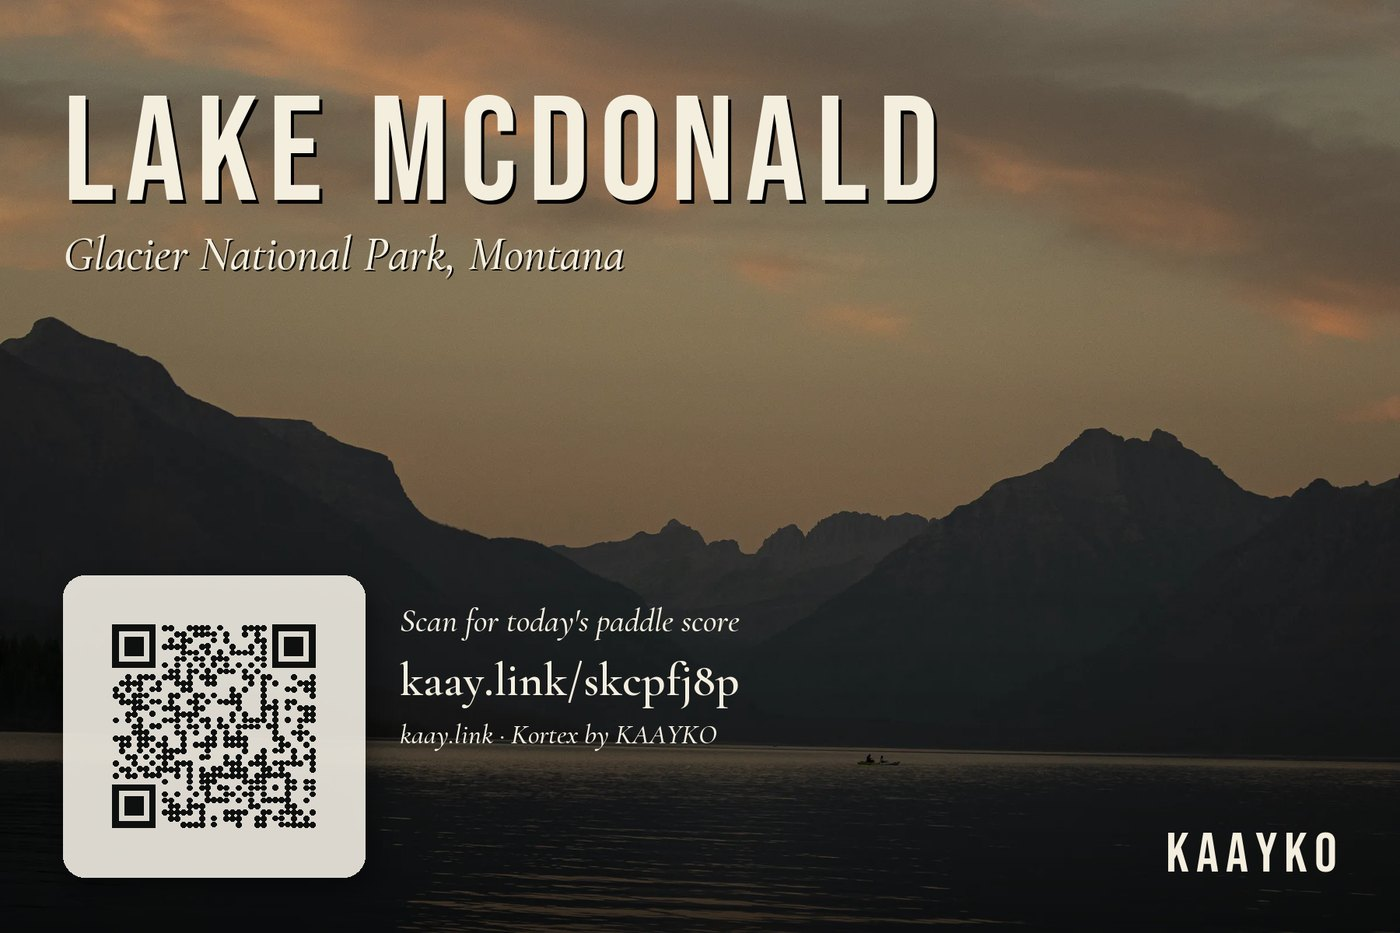
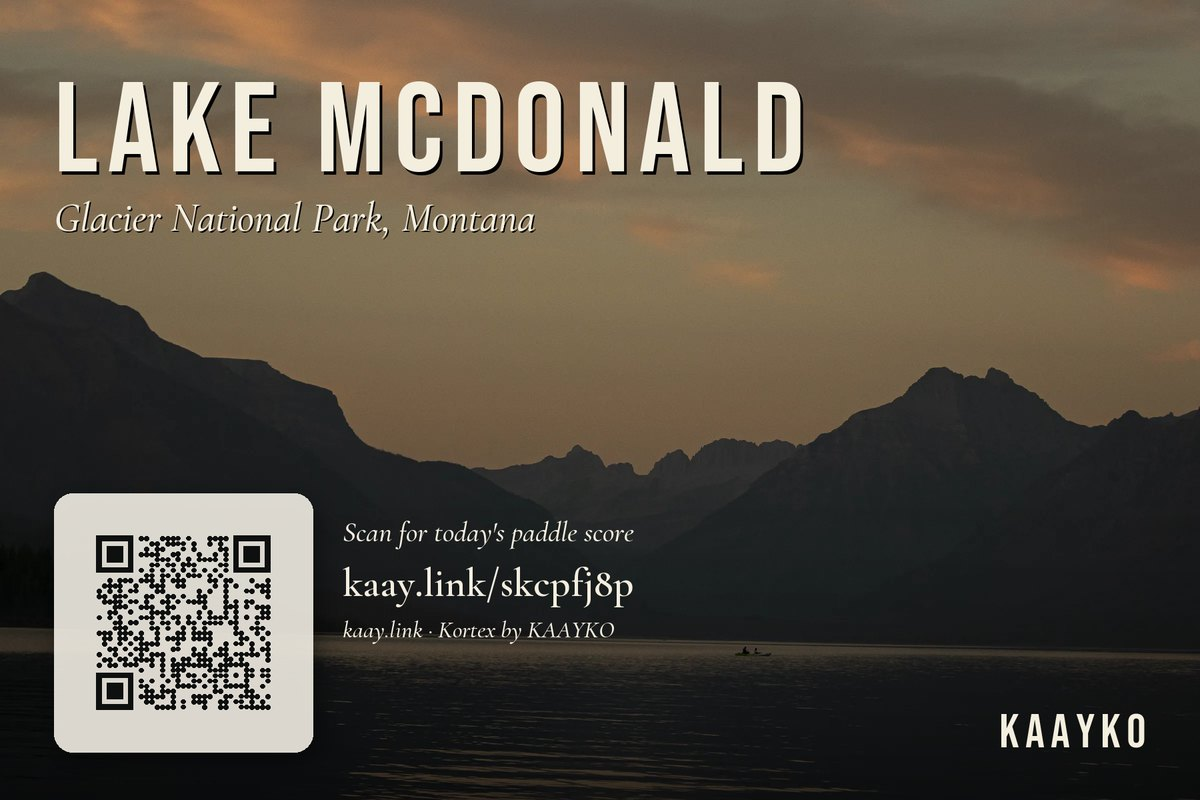
Kortex: the three cards are the /card object — one size, tap to turn over, story and two buttons on the back (its scan report, its page); no sheen

Changed region(s): [[0.0925, 0.6875, 0.2158, 0.875]]

diff --git a/link-site/index.html b/link-site/index.html
@@ -296,20 +296,27 @@ details.options details.options { margin:var(--sp-4) 0 0; padding-top:var(--sp-2
 .cardimg span { display:block; margin-top:var(--sp-3); font-style:italic; font-size:.92rem; color:var(--muted); text-align:center }
 @media(max-width:760px) { .cards { grid-template-columns:1fr } }
 
-/* ── CASES: three cards in one frame, lit the way /card is ── */
+/* ── CASES: three cards, the /card object: same size, turn over on tap, no glow ── */
 .cases { display:grid; grid-template-columns:repeat(3,minmax(0,1fr)); gap:var(--sp-6); align-items:start }
 .case { min-width:0 }
-.cardimg { display:block; min-width:0; perspective:1200px; --rx:0deg; --ry:0deg; --sx:50%; --sy:30%; --spec:.25 }
-.cardimg .frame { position:relative; aspect-ratio:4/5; border-radius:10px; overflow:hidden; background:#f4eedf; transform:rotateX(var(--rx)) rotateY(var(--ry)); transition:transform .55s cubic-bezier(.2,.8,.2,1); box-shadow:0 2px 3px rgba(0,0,0,.5), 0 24px 60px rgba(0,0,0,.62), 0 0 0 1px rgba(181,147,90,.25) }
-.cardimg.is-live .frame { transition:none }
-.cardimg .frame img { display:block; width:100%; height:100%; object-fit:contain; background:#f4eedf }
-.cardimg .sheen { position:absolute; inset:0; pointer-events:none; background:radial-gradient(34% 46% at var(--sx) var(--sy), rgba(255,250,235,var(--spec)), rgba(255,250,235,0) 70%); mix-blend-mode:screen }
-.case h3 { font-family:var(--display); font-size:1.6rem; letter-spacing:.05em; text-transform:uppercase; line-height:1; margin:var(--sp-4) 0 var(--sp-2) }
-.case p { font-style:italic; color:var(--muted); font-size:.98rem }
-.case-rule { font-family:var(--mono); font-style:normal !important; font-size:.74rem !important; color:var(--dim) !important; margin-top:var(--sp-2) }
+.kcard { position:relative; aspect-ratio:3/2; perspective:1400px; cursor:pointer; outline:none; --rx:0deg; --ry:0deg }
+.kcard:focus-visible { outline:1px solid var(--gold-bright); outline-offset:6px }
+.kface { position:absolute; inset:0; border-radius:10px; overflow:hidden; backface-visibility:hidden; -webkit-backface-visibility:hidden; transform:rotateX(var(--rx)) rotateY(calc(var(--ry) + var(--flip,0deg))); transition:transform .7s cubic-bezier(.2,.8,.2,1); box-shadow:0 2px 3px rgba(0,0,0,.5), 0 24px 60px rgba(0,0,0,.62), 0 0 0 1px rgba(181,147,90,.2); background:#f4eedf }
+.kcard.is-live .kface { transition:transform .7s cubic-bezier(.2,.8,.2,1), none }
+.kface.back { transform:rotateX(var(--rx)) rotateY(calc(var(--ry) + var(--flip,0deg) + 180deg)); background:rgba(5,7,14,.96); color:var(--fg); padding:clamp(14px,3vw,26px); display:flex; flex-direction:column; justify-content:center; gap:8px; border:1px solid rgba(181,147,90,.35) }
+.kcard.is-flipped { --flip:180deg }
+.kface img { display:block; width:100%; height:100%; object-fit:cover }
+.kface.back h3 { font-family:var(--display); font-size:clamp(1.3rem,2.2vw,1.7rem); letter-spacing:.06em; text-transform:uppercase; line-height:1 }
+.kface.back p { font-style:italic; color:var(--muted); font-size:clamp(.86rem,1.3vw,.98rem); line-height:1.45 }
+.kface.back .case-rule { font-family:var(--mono); font-style:normal; font-size:.72rem; color:var(--dim) }
+.kctas { display:flex; align-items:center; gap:var(--sp-4); flex-wrap:wrap; margin-top:4px }
+.kctas .btn-submit { width:auto; margin:0; padding:10px 18px; font-size:.78rem }
+.kctas .action-link { font-size:.8rem }
+.ktap { text-align:center; margin-top:var(--sp-3); font-style:italic; font-size:.78rem; letter-spacing:.22em; text-transform:uppercase; color:var(--dim) }
 .everything { text-align:center; margin-top:var(--sp-7); font-style:italic; color:var(--muted); font-size:.98rem; padding-top:var(--sp-5); border-top:1px solid var(--gold-line) }
 .everything b { color:var(--gold-bright); font-weight:500 }
-@media(max-width:960px) { .cases { grid-template-columns:1fr; max-width:420px; margin:0 auto } }
+@media(max-width:960px) { .cases { grid-template-columns:1fr; max-width:520px; margin:0 auto } }
+@media(prefers-reduced-motion:reduce) { .kface { transition:none } }
 
 /* ── MANAGE ── */
 .enter-row { display:flex; gap:var(--sp-4); align-items:flex-end }
@@ -609,23 +616,50 @@ details.options details.options { margin:var(--sp-4) 0 0; padding-top:var(--sp-2
   <h2 class="section-label reveal">three uses</h2>
   <p class="section-title reveal">Print it once. Decide later.</p>
   <div class="cases">
-    <article class="case reveal">
-      <a class="cardimg" href="https://kaayko.com/paddlingout/forecast?id=mcdonald"><span class="frame"><img src="/assets/cards/lake-mcdonald-postcard.jpg" alt="Lake McDonald postcard with its kaay.link code" width="1400" height="933" loading="lazy"><span class="sheen"></span></span></a>
-      <h3>The paddler</h3>
-      <p>A sticker or postcard at the water. One code, the live paddle score behind it, iPhones sent to the app. Every lake it lands at is a placement to compare.</p>
-      <p class="case-rule">kaay.link/skcpfj8p &middot; device routing &middot; placement report</p>
+    <article class="case">
+      <div class="kcard" role="button" tabindex="0" aria-label="Lake McDonald postcard. Activate to turn it over." data-flip>
+        <div class="kface front"><img src="/assets/cards/lake-mcdonald-postcard.jpg" alt="Lake McDonald postcard" width="1200" height="800" loading="lazy"></div>
+        <div class="kface back">
+          <h3>The paddler</h3>
+          <p>A postcard or sticker at the water. One code, the live paddle score behind it. Scan it at the lake, it counts; move the sticker to another lake, compare the two.</p>
+          <p class="case-rule">kaay.link/skcpfj8p</p>
+          <div class="kctas">
+            <a class="btn-submit" href="https://kaayko.com/kortex/r/report_lrboguIeqTf0.5sGGSUI-g2eRFyNJR8Upk_-I5ef-xT6l" data-stop>See its scans</a>
+            <a class="action-link" href="https://kaayko.com/paddlingout/forecast?id=mcdonald" data-stop>Open the forecast</a>
+          </div>
+        </div>
+      </div>
+      <p class="ktap">Tap the card</p>
     </article>
-    <article class="case reveal">
-      <a class="cardimg" href="https://kaay.store/s/moms-shop"><span class="frame"><img src="/assets/cards/moms-shop-card.jpg" alt="Mom's Shop card with its kaay.link code" width="900" height="1350" loading="lazy"><span class="sheen"></span></span></a>
-      <h3>The maker</h3>
-      <p>Mom&rsquo;s Shop: four totes on one shelf at kaay.store, one card, one code. Add a fifth tote next month and the printed code still works.</p>
-      <p class="case-rule">kaay.link/xf4hkysp &middot; kaay.store/s/moms-shop &middot; re-point any time</p>
+    <article class="case">
+      <div class="kcard" role="button" tabindex="0" aria-label="Mom's Shop card. Activate to turn it over." data-flip>
+        <div class="kface front"><img src="/assets/cards/moms-shop-card.jpg" alt="Mom's Shop card" width="1200" height="800" loading="lazy"></div>
+        <div class="kface back">
+          <h3>The maker</h3>
+          <p>Four totes on one shelf at kaay.store, one card, one code. Add a fifth tote next month and the printed code still works, straight through to the bag and checkout.</p>
+          <p class="case-rule">kaay.link/xf4hkysp</p>
+          <div class="kctas">
+            <a class="btn-submit" href="https://kaayko.com/kortex/r/report_1WlrtVX-Se4q.aIDMIMu-c8FH2oLAK36RoOReZmvR6ilJ" data-stop>See its scans</a>
+            <a class="action-link" href="https://kaay.store/s/moms-shop" data-stop>Open the shelf</a>
+          </div>
+        </div>
+      </div>
+      <p class="ktap">Tap the card</p>
     </article>
-    <article class="case reveal">
-      <a class="cardimg" href="/assets/cards/music-gathering-poster.jpg"><span class="frame"><img src="/assets/cards/music-gathering-poster.jpg" alt="An evening of music poster with its kaay.link code" width="900" height="1260" loading="lazy"><span class="sheen"></span></span></a>
-      <h3>The gathering</h3>
-      <p>A poster on the grocery board. Print it once; the code says where and when, and can point at the next evening after this one. Made in Forge.</p>
-      <p class="case-rule">kaay.link/zs9resps &middot; re-point after printing &middot; night and day</p>
+    <article class="case">
+      <div class="kcard" role="button" tabindex="0" aria-label="An evening of music card. Activate to turn it over." data-flip>
+        <div class="kface front"><img src="/assets/cards/music-gathering-card.jpg" alt="An evening of music card" width="1200" height="800" loading="lazy"></div>
+        <div class="kface back">
+          <h3>The gathering</h3>
+          <p>A card on the grocery board. Print it once; the code says where and when, and points at the next evening after this one without a reprint.</p>
+          <p class="case-rule">kaay.link/zs9resps</p>
+          <div class="kctas">
+            <a class="btn-submit" href="https://kaayko.com/kortex/r/report_Dmo13XmwB4bQ.VfKggUoQcKHF4wjynF38eHu-Qy6WC7fm" data-stop>See its scans</a>
+            <a class="action-link" href="/assets/cards/music-gathering-card.jpg" data-stop>See the card</a>
+          </div>
+        </div>
+      </div>
+      <p class="ktap">Tap the card</p>
     </article>
   </div>
   <p class="everything reveal"><b>Every code, free:</b> device routing &middot; night and day destinations &middot; caps, end dates, fallback &middot; safety checks &middot; scans by day, hour, device, country &middot; findings &middot; CSV &middot; read-only reports</p>
@@ -827,24 +861,20 @@ details.options details.options { margin:var(--sp-4) 0 0; padding-top:var(--sp-2
   const io = new IntersectionObserver(entries => entries.forEach(e => { if (e.isIntersecting) { e.target.classList.add('visible'); io.unobserve(e.target); } }), { threshold: 0.1, rootMargin: '0px 0px -40px 0px' });
   document.querySelectorAll('.reveal').forEach(el => io.observe(el));
 })();
-/* ── the three cards, lit like /card: the pointer is a lamp, the card leans toward it ── */
+/* ── the three cards: the /card object. Tap turns it over; the pointer tilts it a little. No sheen. ── */
 (function () {
   const still = matchMedia('(prefers-reduced-motion: reduce)').matches, fine = matchMedia('(pointer: fine)').matches;
-  if (still || !fine) return;
-  const TILT = 9;
-  document.querySelectorAll('.cardimg').forEach(card => {
-    let raf = 0, target = { x: .5, y: .35 }, cur = { x: .5, y: .35 }, on = false;
-    function light(px, py) {
-      const rx = (0.5 - py) * 2 * TILT, ry = (px - 0.5) * 2 * TILT;
-      const s = card.style;
-      s.setProperty('--rx', rx.toFixed(2) + 'deg'); s.setProperty('--ry', ry.toFixed(2) + 'deg');
-      s.setProperty('--sx', (px * 100).toFixed(1) + '%'); s.setProperty('--sy', (py * 100).toFixed(1) + '%');
-      s.setProperty('--spec', (0.18 + 0.5 * (1 - Math.min(1, Math.hypot(px - .5, py - .5) * 1.4))).toFixed(3));
-    }
-    function loop() { cur.x += (target.x - cur.x) * .14; cur.y += (target.y - cur.y) * .14; light(cur.x, cur.y); if (on || Math.abs(target.x - cur.x) + Math.abs(target.y - cur.y) > .002) raf = requestAnimationFrame(loop); else raf = 0; }
+  document.querySelectorAll('[data-flip]').forEach(card => {
+    const flip = () => card.classList.toggle('is-flipped');
+    card.addEventListener('click', e => { if (e.target.closest('[data-stop]')) return; flip(); });
+    card.addEventListener('keydown', e => { if (e.key === 'Enter' || e.key === ' ') { e.preventDefault(); flip(); } });
+    if (still || !fine) return;
+    const TILT = 7; let raf = 0, t = { x: .5, y: .5 }, c = { x: .5, y: .5 }, on = false;
+    const set = () => { card.style.setProperty('--rx', ((0.5 - c.y) * 2 * TILT).toFixed(2) + 'deg'); card.style.setProperty('--ry', ((c.x - 0.5) * 2 * TILT).toFixed(2) + 'deg'); };
+    const loop = () => { c.x += (t.x - c.x) * .14; c.y += (t.y - c.y) * .14; set(); if (on || Math.abs(t.x - c.x) + Math.abs(t.y - c.y) > .002) raf = requestAnimationFrame(loop); else raf = 0; };
     card.addEventListener('pointerenter', () => { on = true; card.classList.add('is-live'); if (!raf) raf = requestAnimationFrame(loop); });
-    card.addEventListener('pointermove', e => { const r = card.getBoundingClientRect(); target.x = (e.clientX - r.left) / r.width; target.y = (e.clientY - r.top) / r.height; });
-    card.addEventListener('pointerleave', () => { on = false; card.classList.remove('is-live'); target = { x: .5, y: .35 }; if (!raf) raf = requestAnimationFrame(loop); });
+    card.addEventListener('pointermove', e => { const r = card.getBoundingClientRect(); t.x = (e.clientX - r.left) / r.width; t.y = (e.clientY - r.top) / r.height; });
+    card.addEventListener('pointerleave', () => { on = false; card.classList.remove('is-live'); t = { x: .5, y: .5 }; if (!raf) raf = requestAnimationFrame(loop); });
   });
 })();
 </script>

diff --git a/src/kortex.html b/src/kortex.html
@@ -296,20 +296,27 @@ details.options details.options { margin:var(--sp-4) 0 0; padding-top:var(--sp-2
 .cardimg span { display:block; margin-top:var(--sp-3); font-style:italic; font-size:.92rem; color:var(--muted); text-align:center }
 @media(max-width:760px) { .cards { grid-template-columns:1fr } }
 
-/* ── CASES: three cards in one frame, lit the way /card is ── */
+/* ── CASES: three cards, the /card object: same size, turn over on tap, no glow ── */
 .cases { display:grid; grid-template-columns:repeat(3,minmax(0,1fr)); gap:var(--sp-6); align-items:start }
 .case { min-width:0 }
-.cardimg { display:block; min-width:0; perspective:1200px; --rx:0deg; --ry:0deg; --sx:50%; --sy:30%; --spec:.25 }
-.cardimg .frame { position:relative; aspect-ratio:4/5; border-radius:10px; overflow:hidden; background:#f4eedf; transform:rotateX(var(--rx)) rotateY(var(--ry)); transition:transform .55s cubic-bezier(.2,.8,.2,1); box-shadow:0 2px 3px rgba(0,0,0,.5), 0 24px 60px rgba(0,0,0,.62), 0 0 0 1px rgba(181,147,90,.25) }
-.cardimg.is-live .frame { transition:none }
-.cardimg .frame img { display:block; width:100%; height:100%; object-fit:contain; background:#f4eedf }
-.cardimg .sheen { position:absolute; inset:0; pointer-events:none; background:radial-gradient(34% 46% at var(--sx) var(--sy), rgba(255,250,235,var(--spec)), rgba(255,250,235,0) 70%); mix-blend-mode:screen }
-.case h3 { font-family:var(--display); font-size:1.6rem; letter-spacing:.05em; text-transform:uppercase; line-height:1; margin:var(--sp-4) 0 var(--sp-2) }
-.case p { font-style:italic; color:var(--muted); font-size:.98rem }
-.case-rule { font-family:var(--mono); font-style:normal !important; font-size:.74rem !important; color:var(--dim) !important; margin-top:var(--sp-2) }
+.kcard { position:relative; aspect-ratio:3/2; perspective:1400px; cursor:pointer; outline:none; --rx:0deg; --ry:0deg }
+.kcard:focus-visible { outline:1px solid var(--gold-bright); outline-offset:6px }
+.kface { position:absolute; inset:0; border-radius:10px; overflow:hidden; backface-visibility:hidden; -webkit-backface-visibility:hidden; transform:rotateX(var(--rx)) rotateY(calc(var(--ry) + var(--flip,0deg))); transition:transform .7s cubic-bezier(.2,.8,.2,1); box-shadow:0 2px 3px rgba(0,0,0,.5), 0 24px 60px rgba(0,0,0,.62), 0 0 0 1px rgba(181,147,90,.2); background:#f4eedf }
+.kcard.is-live .kface { transition:transform .7s cubic-bezier(.2,.8,.2,1), none }
+.kface.back { transform:rotateX(var(--rx)) rotateY(calc(var(--ry) + var(--flip,0deg) + 180deg)); background:rgba(5,7,14,.96); color:var(--fg); padding:clamp(14px,3vw,26px); display:flex; flex-direction:column; justify-content:center; gap:8px; border:1px solid rgba(181,147,90,.35) }
+.kcard.is-flipped { --flip:180deg }
+.kface img { display:block; width:100%; height:100%; object-fit:cover }
+.kface.back h3 { font-family:var(--display); font-size:clamp(1.3rem,2.2vw,1.7rem); letter-spacing:.06em; text-transform:uppercase; line-height:1 }
+.kface.back p { font-style:italic; color:var(--muted); font-size:clamp(.86rem,1.3vw,.98rem); line-height:1.45 }
+.kface.back .case-rule { font-family:var(--mono); font-style:normal; font-size:.72rem; color:var(--dim) }
+.kctas { display:flex; align-items:center; gap:var(--sp-4); flex-wrap:wrap; margin-top:4px }
+.kctas .btn-submit { width:auto; margin:0; padding:10px 18px; font-size:.78rem }
+.kctas .action-link { font-size:.8rem }
+.ktap { text-align:center; margin-top:var(--sp-3); font-style:italic; font-size:.78rem; letter-spacing:.22em; text-transform:uppercase; color:var(--dim) }
 .everything { text-align:center; margin-top:var(--sp-7); font-style:italic; color:var(--muted); font-size:.98rem; padding-top:var(--sp-5); border-top:1px solid var(--gold-line) }
 .everything b { color:var(--gold-bright); font-weight:500 }
-@media(max-width:960px) { .cases { grid-template-columns:1fr; max-width:420px; margin:0 auto } }
+@media(max-width:960px) { .cases { grid-template-columns:1fr; max-width:520px; margin:0 auto } }
+@media(prefers-reduced-motion:reduce) { .kface { transition:none } }
 
 /* ── MANAGE ── */
 .enter-row { display:flex; gap:var(--sp-4); align-items:flex-end }
@@ -609,23 +616,50 @@ details.options details.options { margin:var(--sp-4) 0 0; padding-top:var(--sp-2
   <h2 class="section-label reveal">three uses</h2>
   <p class="section-title reveal">Print it once. Decide later.</p>
   <div class="cases">
-    <article class="case reveal">
-      <a class="cardimg" href="https://kaayko.com/paddlingout/forecast?id=mcdonald"><span class="frame"><img src="/assets/cards/lake-mcdonald-postcard.jpg" alt="Lake McDonald postcard with its kaay.link code" width="1400" height="933" loading="lazy"><span class="sheen"></span></span></a>
-      <h3>The paddler</h3>
-      <p>A sticker or postcard at the water. One code, the live paddle score behind it, iPhones sent to the app. Every lake it lands at is a placement to compare.</p>
-      <p class="case-rule">kaay.link/skcpfj8p &middot; device routing &middot; placement report</p>
+    <article class="case">
+      <div class="kcard" role="button" tabindex="0" aria-label="Lake McDonald postcard. Activate to turn it over." data-flip>
+        <div class="kface front"><img src="/assets/cards/lake-mcdonald-postcard.jpg" alt="Lake McDonald postcard" width="1200" height="800" loading="lazy"></div>
+        <div class="kface back">
+          <h3>The paddler</h3>
+          <p>A postcard or sticker at the water. One code, the live paddle score behind it. Scan it at the lake, it counts; move the sticker to another lake, compare the two.</p>
+          <p class="case-rule">kaay.link/skcpfj8p</p>
+          <div class="kctas">
+            <a class="btn-submit" href="https://kaayko.com/kortex/r/report_lrboguIeqTf0.5sGGSUI-g2eRFyNJR8Upk_-I5ef-xT6l" data-stop>See its scans</a>
+            <a class="action-link" href="https://kaayko.com/paddlingout/forecast?id=mcdonald" data-stop>Open the forecast</a>
+          </div>
+        </div>
+      </div>
+      <p class="ktap">Tap the card</p>
     </article>
-    <article class="case reveal">
-      <a class="cardimg" href="https://kaay.store/s/moms-shop"><span class="frame"><img src="/assets/cards/moms-shop-card.jpg" alt="Mom's Shop card with its kaay.link code" width="900" height="1350" loading="lazy"><span class="sheen"></span></span></a>
-      <h3>The maker</h3>
-      <p>Mom&rsquo;s Shop: four totes on one shelf at kaay.store, one card, one code. Add a fifth tote next month and the printed code still works.</p>
-      <p class="case-rule">kaay.link/xf4hkysp &middot; kaay.store/s/moms-shop &middot; re-point any time</p>
+    <article class="case">
+      <div class="kcard" role="button" tabindex="0" aria-label="Mom's Shop card. Activate to turn it over." data-flip>
+        <div class="kface front"><img src="/assets/cards/moms-shop-card.jpg" alt="Mom's Shop card" width="1200" height="800" loading="lazy"></div>
+        <div class="kface back">
+          <h3>The maker</h3>
+          <p>Four totes on one shelf at kaay.store, one card, one code. Add a fifth tote next month and the printed code still works, straight through to the bag and checkout.</p>
+          <p class="case-rule">kaay.link/xf4hkysp</p>
+          <div class="kctas">
+            <a class="btn-submit" href="https://kaayko.com/kortex/r/report_1WlrtVX-Se4q.aIDMIMu-c8FH2oLAK36RoOReZmvR6ilJ" data-stop>See its scans</a>
+            <a class="action-link" href="https://kaay.store/s/moms-shop" data-stop>Open the shelf</a>
+          </div>
+        </div>
+      </div>
+      <p class="ktap">Tap the card</p>
     </article>
-    <article class="case reveal">
-      <a class="cardimg" href="/assets/cards/music-gathering-poster.jpg"><span class="frame"><img src="/assets/cards/music-gathering-poster.jpg" alt="An evening of music poster with its kaay.link code" width="900" height="1260" loading="lazy"><span class="sheen"></span></span></a>
-      <h3>The gathering</h3>
-      <p>A poster on the grocery board. Print it once; the code says where and when, and can point at the next evening after this one. Made in Forge.</p>
-      <p class="case-rule">kaay.link/zs9resps &middot; re-point after printing &middot; night and day</p>
+    <article class="case">
+      <div class="kcard" role="button" tabindex="0" aria-label="An evening of music card. Activate to turn it over." data-flip>
+        <div class="kface front"><img src="/assets/cards/music-gathering-card.jpg" alt="An evening of music card" width="1200" height="800" loading="lazy"></div>
+        <div class="kface back">
+          <h3>The gathering</h3>
+          <p>A card on the grocery board. Print it once; the code says where and when, and points at the next evening after this one without a reprint.</p>
+          <p class="case-rule">kaay.link/zs9resps</p>
+          <div class="kctas">
+            <a class="btn-submit" href="https://kaayko.com/kortex/r/report_Dmo13XmwB4bQ.VfKggUoQcKHF4wjynF38eHu-Qy6WC7fm" data-stop>See its scans</a>
+            <a class="action-link" href="/assets/cards/music-gathering-card.jpg" data-stop>See the card</a>
+          </div>
+        </div>
+      </div>
+      <p class="ktap">Tap the card</p>
     </article>
   </div>
   <p class="everything reveal"><b>Every code, free:</b> device routing &middot; night and day destinations &middot; caps, end dates, fallback &middot; safety checks &middot; scans by day, hour, device, country &middot; findings &middot; CSV &middot; read-only reports</p>
@@ -827,24 +861,20 @@ details.options details.options { margin:var(--sp-4) 0 0; padding-top:var(--sp-2
   const io = new IntersectionObserver(entries => entries.forEach(e => { if (e.isIntersecting) { e.target.classList.add('visible'); io.unobserve(e.target); } }), { threshold: 0.1, rootMargin: '0px 0px -40px 0px' });
   document.querySelectorAll('.reveal').forEach(el => io.observe(el));
 })();
-/* ── the three cards, lit like /card: the pointer is a lamp, the card leans toward it ── */
+/* ── the three cards: the /card object. Tap turns it over; the pointer tilts it a little. No sheen. ── */
 (function () {
   const still = matchMedia('(prefers-reduced-motion: reduce)').matches, fine = matchMedia('(pointer: fine)').matches;
-  if (still || !fine) return;
-  const TILT = 9;
-  document.querySelectorAll('.cardimg').forEach(card => {
-    let raf = 0, target = { x: .5, y: .35 }, cur = { x: .5, y: .35 }, on = false;
-    function light(px, py) {
-      const rx = (0.5 - py) * 2 * TILT, ry = (px - 0.5) * 2 * TILT;
-      const s = card.style;
-      s.setProperty('--rx', rx.toFixed(2) + 'deg'); s.setProperty('--ry', ry.toFixed(2) + 'deg');
-      s.setProperty('--sx', (px * 100).toFixed(1) + '%'); s.setProperty('--sy', (py * 100).toFixed(1) + '%');
-      s.setProperty('--spec', (0.18 + 0.5 * (1 - Math.min(1, Math.hypot(px - .5, py - .5) * 1.4))).toFixed(3));
-    }
-    function loop() { cur.x += (target.x - cur.x) * .14; cur.y += (target.y - cur.y) * .14; light(cur.x, cur.y); if (on || Math.abs(target.x - cur.x) + Math.abs(target.y - cur.y) > .002) raf = requestAnimationFrame(loop); else raf = 0; }
+  document.querySelectorAll('[data-flip]').forEach(card => {
+    const flip = () => card.classList.toggle('is-flipped');
+    card.addEventListener('click', e => { if (e.target.closest('[data-stop]')) return; flip(); });
+    card.addEventListener('keydown', e => { if (e.key === 'Enter' || e.key === ' ') { e.preventDefault(); flip(); } });
+    if (still || !fine) return;
+    const TILT = 7; let raf = 0, t = { x: .5, y: .5 }, c = { x: .5, y: .5 }, on = false;
+    const set = () => { card.style.setProperty('--rx', ((0.5 - c.y) * 2 * TILT).toFixed(2) + 'deg'); card.style.setProperty('--ry', ((c.x - 0.5) * 2 * TILT).toFixed(2) + 'deg'); };
+    const loop = () => { c.x += (t.x - c.x) * .14; c.y += (t.y - c.y) * .14; set(); if (on || Math.abs(t.x - c.x) + Math.abs(t.y - c.y) > .002) raf = requestAnimationFrame(loop); else raf = 0; };
     card.addEventListener('pointerenter', () => { on = true; card.classList.add('is-live'); if (!raf) raf = requestAnimationFrame(loop); });
-    card.addEventListener('pointermove', e => { const r = card.getBoundingClientRect(); target.x = (e.clientX - r.left) / r.width; target.y = (e.clientY - r.top) / r.height; });
-    card.addEventListener('pointerleave', () => { on = false; card.classList.remove('is-live'); target = { x: .5, y: .35 }; if (!raf) raf = requestAnimationFrame(loop); });
+    card.addEventListener('pointermove', e => { const r = card.getBoundingClientRect(); t.x = (e.clientX - r.left) / r.width; t.y = (e.clientY - r.top) / r.height; });
+    card.addEventListener('pointerleave', () => { on = false; card.classList.remove('is-live'); t = { x: .5, y: .5 }; if (!raf) raf = requestAnimationFrame(loop); });
   });
 })();
 </script>
